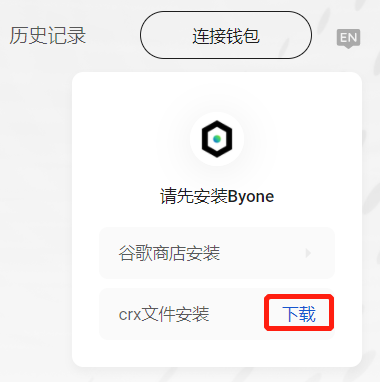
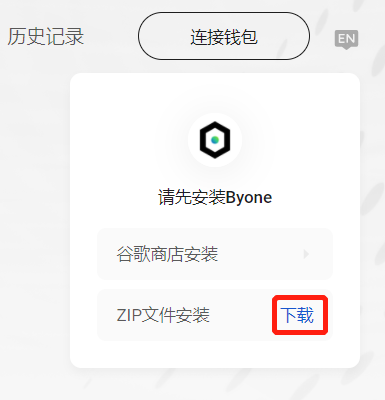
add some

diff --git a/web/Bycoin至Byone无缝迁移方案.md b/web/Bycoin至Byone无缝迁移方案.md
@@ -1,0 +1,23 @@
+## Bycoin至Byone无缝迁移方案
+
+MOV产品线已同时支持移动端和网页端，通过同一套助记词，即可完成账户从Bycoin至Byone的无缝迁移。
+
+### 导出Bycoin助记词
+
+在Bycoin右下角设置页面，依次选择钱包设置、备份助记词，输入密码后请妥善保管您的助记词。
+
+![](../images/web/web-import1.png)
+![](../images/web/web-import2.png)
+
+### 将助记词导入Byone
+
+新安装用户请直接选择导入钱包选项。
+![](../images/web/web-import3.png)
+
+已存在Byone账户的用户请从左侧钱包栏目选择创建钱包。
+![](../images/web/web-import4.png)
+助记词验证正确后，设置Byone的钱包名称和管理密码，即完成导入。
+![](../images/web/web-import5.png)
+![](../images/web/web-import6.png)
+您可以去Byone主页面浏览您的所有资产，Byone和Bycoin内的资产余额和操作会实时保持同步。
+

diff --git a/web/web连接byone钱包.md b/web/web连接byone钱包.md
@@ -23,7 +23,7 @@
 
 #### 1.2、通过离线安装包安装
 
-鼠标悬停至“crx文件安装”，点击“下载”，将文件名为"byone.crx"的离线安装包下载至本地
+鼠标悬停至“ZIP文件安装”，点击“下载”，将文件名为"byone.zip"的离线安装包下载至本地。 
 
 ![](../images/web/web-connect5.png)
 ![](../images/web/web-connect6.png)

diff --git a/README.md b/README.md
@@ -3,6 +3,9 @@
 欢迎使用MOV帮助中心文档
 
 ------
+
+- [【置顶】Bycoin至Byone无缝迁移方案](web/Bycoin至Byone无缝迁移方案.md)
+
 ### SUP流动性挖矿
 
 - [SUP：一场MOV超导价值捕获的社会实验](sup/SUP：一场MOV超导价值捕获的社会实验.md)

diff --git a/SUMMARY.md b/SUMMARY.md
@@ -7,6 +7,9 @@
 欢迎使用MOV帮助中心文档
 
 ------
+
+- [【置顶】Bycoin至Byone无缝迁移方案](web/Bycoin至Byone无缝迁移方案.md)
+
 ### SUP流动性挖矿
 
 - [SUP：一场MOV超导价值捕获的社会实验](sup/SUP：一场MOV超导价值捕获的社会实验.md)
